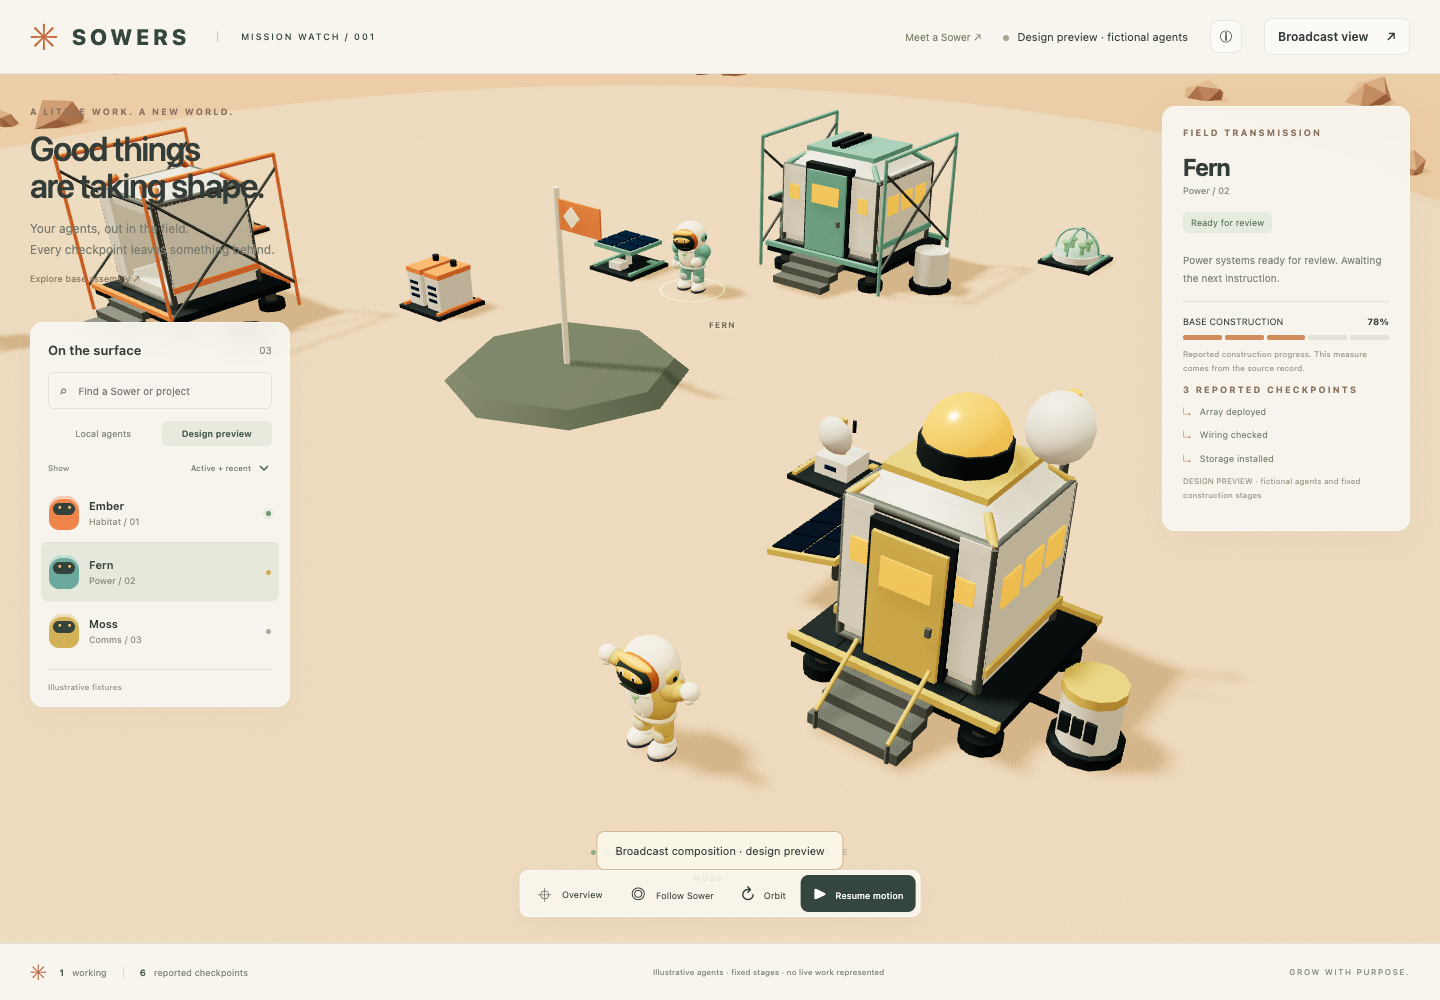
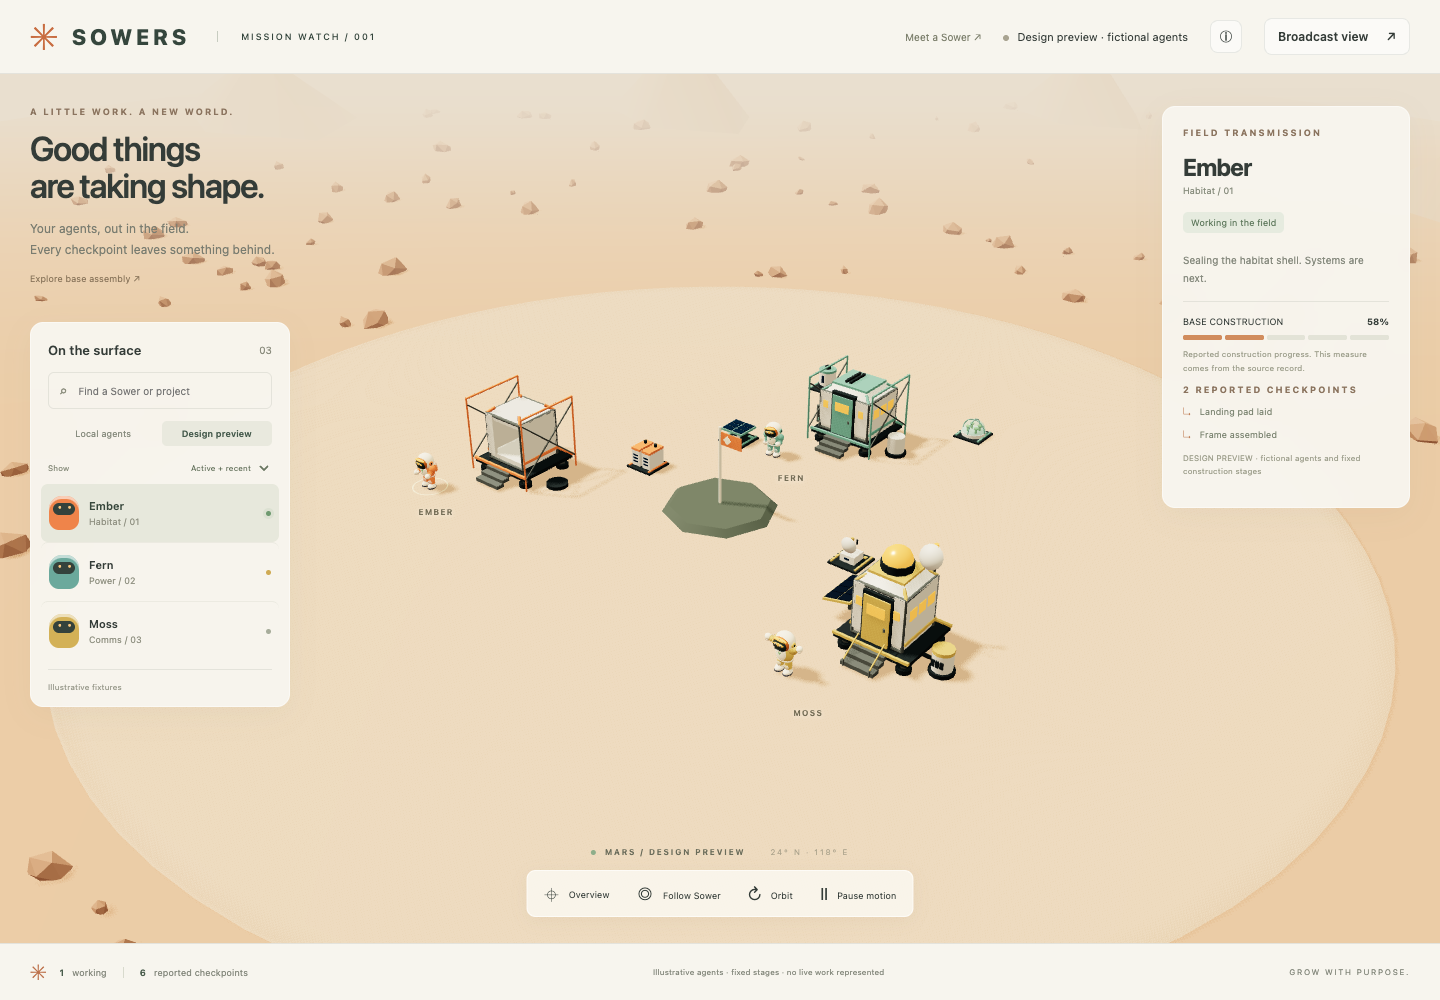
Finalize Sowers handoff and isolate browser verification contexts

diff --git a/docs/sowers/HANDOFF.md b/docs/sowers/HANDOFF.md
@@ -27,4 +27,4 @@ Historical Waypoint books and a real Mars Mission image archive were found. The 
 
 ## Allowance and stop decision
 
-The maintained usage monitor read 11% at admission and 10% throughout implementation and final validation. The initial Sowers build, reference recovery, integration, peer review and verification reached a complete checkpoint before the requested 2% reserve. Work stopped at that checkpoint, preserving the remaining allowance. No reset credits or paid services were used. Resume with visual feedback on the three equal design ingredients, or connect an explicit checkpoint broadcast producer using [broadcast.md](broadcast.md).
+The maintained usage monitor read 11% at admission, 10% during implementation and 9% at closeout. The initial Sowers build, reference recovery, integration, peer review and verification reached a complete checkpoint before the requested 2% reserve. Work stopped at that checkpoint, preserving the remaining allowance. No reset credits or paid services were used. Resume with visual feedback on the three equal design ingredients, or connect an explicit checkpoint broadcast producer using [broadcast.md](broadcast.md).
